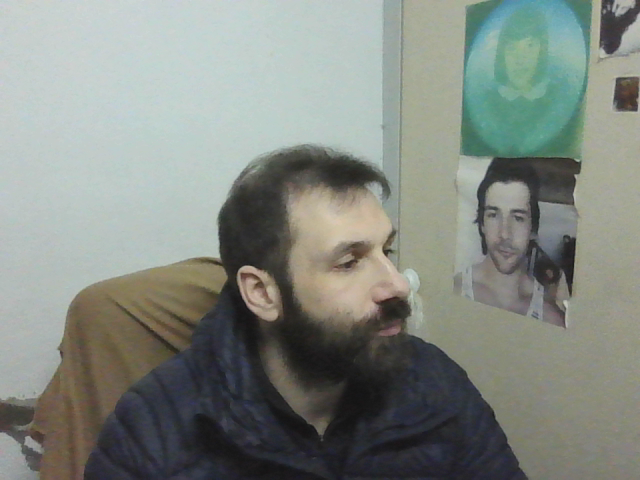
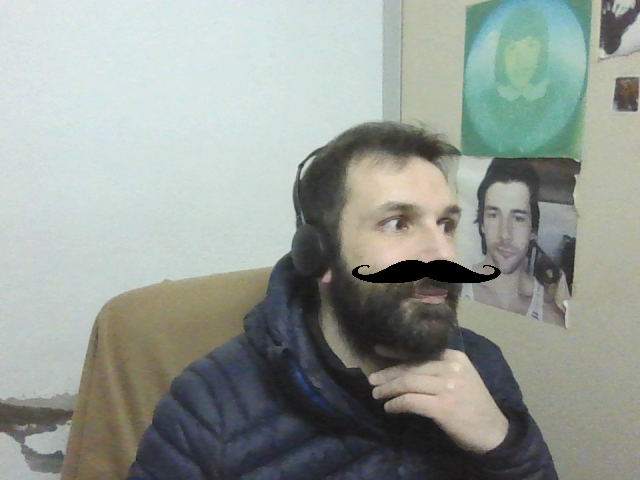
ADD: LS: imgFilter global mode

diff --git a/Proj/code/LS/LSApp/mainwindow.cpp b/Proj/code/LS/LSApp/mainwindow.cpp
@@ -120,6 +120,8 @@ MainWindow::MainWindow(QWidget *parent)
             this, SLOT(onImgFiltSelected(int)) );
     connect(_interWind, SIGNAL( takePic_complete() ),
             this, SLOT( onTakePic_complete() ));
+    connect(_imgFiltWind, SIGNAL(imgFiltGlobal(bool)),
+            this, SLOT(onImgFiltGlobal(bool)) );
 
     //connect()
 
@@ -132,6 +134,7 @@ MainWindow::MainWindow(QWidget *parent)
     pthread_mutex_init(&_m_mode, NULL);
     pthread_mutex_init(&_m_cond_cam_started, NULL);
     pthread_mutex_init(&_m_curFrame, NULL);
+    pthread_mutex_init(&_m_imgFilter, NULL);
 
     /**< Condition variables initialization */
     pthread_cond_init( &_cond_cam_started, 0);
@@ -170,6 +173,7 @@ MainWindow::MainWindow(QWidget *parent)
 
     /**< Create filters */
     createFilters();
+    _filter_on = false;
 
 
     /**< Threads */
@@ -187,6 +191,13 @@ MainWindow::MainWindow(QWidget *parent)
 //                    &MainWindow::gesture_recog_worker_thr, this );
 }
 
+void MainWindow::onImgFiltGlobal(bool enable){
+    //std::cout << "ImgFiltGlobal" << std::endl;
+    /**< Enabling filter globally */;
+    pthread_mutex_lock( &this->_m_imgFilter);
+    this->_filter_on = enable;
+    pthread_mutex_unlock( &this->_m_imgFilter);
+}
 
 MainWindow::~MainWindow() {
 
@@ -542,32 +553,44 @@ void* MainWindow::gesture_recog_worker_thr(void *arg){
 
 void MainWindow::displayImg(cv::Mat frame){
 
-    switch(_appmode){
-    case AppMode::INTER:
-    case AppMode::SHAR:
-        /**< Store current frame */
-        pthread_mutex_lock( &_m_curFrame);
-        _curFrame = frame;
-        pthread_mutex_unlock( &_m_curFrame);
+    //switch(_appmode){
+    //case AppMode::INTER:
+    //case AppMode::SHAR:
+    //    /**< Store current frame */
+    //    pthread_mutex_lock( &_m_curFrame);
+    //    _curFrame = frame;
+    //    pthread_mutex_unlock( &_m_curFrame);
 
-        /**< Recognize gesture */
-        this->recognizeGesture(frame);
-        break;
-    case AppMode::IMGFILT:
-        /**< Recognize gesture */
-        this->recognizeGesture(frame);
+    //    /**< Recognize gesture */
+    //    this->recognizeGesture(frame);
+    //    break;
+    //case AppMode::IMGFILT:
+    //    /**< Recognize gesture */
+    //    this->recognizeGesture(frame);
 
-        /**< Apply filter */
+    //    /**< Apply filter */
+    //    this->applyFilterOverlay(frame, _filters[_filters_idx]);
+
+    //    /**< Store current frame */
+    //    pthread_mutex_lock( &_m_curFrame);
+    //    _curFrame = frame;
+    //    pthread_mutex_unlock( &_m_curFrame);
+    //    break;
+    //default:
+    //    break;
+    //}
+
+    /**< Store current frame */
+    pthread_mutex_lock( &_m_curFrame);
+    _curFrame = frame;
+    pthread_mutex_unlock( &_m_curFrame);
+
+    /**< Recognize gesture */
+    this->recognizeGesture(frame);
+
+    /**< Apply filter */
+    if(_filter_on)
         this->applyFilterOverlay(frame, _filters[_filters_idx]);
-
-        /**< Store current frame */
-        pthread_mutex_lock( &_m_curFrame);
-        _curFrame = frame;
-        pthread_mutex_unlock( &_m_curFrame);
-        break;
-    default:
-        break;
-    }
 
 //    static bool updateCanvas = false;
 //    /**< Store current frame */
@@ -577,17 +600,15 @@ void MainWindow::displayImg(cv::Mat frame){
 //
 //    if(updateCanvas){
 
-        QImage qimg(frame.data, frame.cols, frame.rows, frame.step,
-                            QImage::Format_RGB888);
+    QImage qimg(frame.data, frame.cols, frame.rows, frame.step,
+                QImage::Format_RGB888);
 
-        this->_pixmap.setPixmap(QPixmap::fromImage(qimg.rgbSwapped()));
+    this->_pixmap.setPixmap(QPixmap::fromImage(qimg.rgbSwapped()));
 
-        /**< Aspect ratio */
-        /* KeepAspectRatio is what works best */
-        this->ui->graphicsView->fitInView(&this->_pixmap,
-                                              Qt::KeepAspectRatio);
-        //   }
-
+    /**< Aspect ratio */
+    /* KeepAspectRatio is what works best */
+    this->ui->graphicsView->fitInView(&this->_pixmap, Qt::KeepAspectRatio);
+    //   }
 }
 
 void MainWindow::recognizeGesture(cv::Mat &frame){
@@ -876,12 +897,16 @@ void MainWindow::onInter_mode_pressed(){
 
 void MainWindow::onImgFilt_mode_pressed(){
 
+    /**< Enabling filter globally */;
+    pthread_mutex_lock( &this->_m_imgFilter);
+    this->_filter_on = true;
+    pthread_mutex_unlock( &this->_m_imgFilter);
+
     /**< Change mode before jumping */
     pthread_mutex_lock( &_m_mode);
     _appmode = AppMode::IMGFILT;
     ui->stackedWidget->setCurrentIndex(_appmode);
     pthread_mutex_unlock( &_m_mode);
-    
 }
 
 void MainWindow::onShar_mode_pressed(){

diff --git a/Proj/code/LS/LSApp/imgfiltwindow.cpp b/Proj/code/LS/LSApp/imgfiltwindow.cpp
@@ -28,73 +28,67 @@ ImgFiltWindow::~ImgFiltWindow()
     delete ui;
 }
 
-void ImgFiltWindow::on_pb_cancel_share_clicked()
+void ImgFiltWindow::on_pb_cancel_clicked()
 {
+    /**< Make filtering permanent */
+    emit imgFiltGlobal(false);
+    
     /**< Go to INTERACTION mode */
     // Reset view to main before emiting signal
     ui->stackedWidget->setCurrentIndex(UIPages::MAIN);
     emit inter_mode_pressed();
 }
 
-
 void ImgFiltWindow::on_pb_img_filt_clicked()
 {
     emit imgFiltSelected(0);
 }
-
 
 void ImgFiltWindow::on_pb_img_filt_2_clicked()
 {
     emit imgFiltSelected(1);
 }
 
-
 void ImgFiltWindow::on_pb_img_filt_3_clicked()
 {
     emit imgFiltSelected(2);
 }
 
-
-//void ImgFiltWindow::on_pb_img_filt_4_clicked()
-//{
-//    emit imgFiltSelected(3);
-//}
-
-
-void ImgFiltWindow::on_pb_img_filt_5_clicked()
+void ImgFiltWindow::on_pb_p1_next_clicked()
 {
     // DUMMY: for navigation only
     ui->stackedWidget->setCurrentIndex(UIPages::PAGE2);
 }
 
-
-void ImgFiltWindow::on_pb_cancel_share_2_clicked()
+void ImgFiltWindow::on_pb_p2_back_clicked()
 {
     ui->stackedWidget->setCurrentIndex(UIPages::MAIN);
 }
 
-
-void ImgFiltWindow::on_pb_img_filt_6_clicked()
+void ImgFiltWindow::on_pb_img_filt_4_clicked()
 {
     emit imgFiltSelected(0);
 }
 
-
-void ImgFiltWindow::on_pb_img_filt_7_clicked()
+void ImgFiltWindow::on_pb_img_filt_5_clicked()
 {
     emit imgFiltSelected(1);
 }
 
-
-void ImgFiltWindow::on_pb_img_filt_8_clicked()
+void ImgFiltWindow::on_pb_img_filt_6_clicked()
 {
     emit imgFiltSelected(2);
 }
 
-
-void ImgFiltWindow::on_pb_img_filt_9_clicked()
+void ImgFiltWindow::on_pb_img_filt_ok_clicked()
 {
-    emit imgFiltSelected(0);
+    /**< Make filtering permanent */
+    emit imgFiltGlobal(true);
+
+    /**< Go to INTERACTION mode */
+    // Reset view to main before emiting signal
+    ui->stackedWidget->setCurrentIndex(UIPages::MAIN);
+    emit inter_mode_pressed();
 }
 
 //void ImgFiltWindow::on_pb_img_filt_10_clicked()

diff --git a/Proj/code/LS/LSApp/imgfiltwindow.h b/Proj/code/LS/LSApp/imgfiltwindow.h
@@ -16,29 +16,19 @@ public:
     ~ImgFiltWindow();
 
 private slots:
-    void on_pb_cancel_share_clicked();
-
+    /**< Page 1 */
+    void on_pb_cancel_clicked();
     void on_pb_img_filt_clicked();
-
     void on_pb_img_filt_2_clicked();
-
     void on_pb_img_filt_3_clicked();
+    void on_pb_p1_next_clicked();
 
-//    void on_pb_img_filt_4_clicked();
-
+    /**< Page 2 */
+    void on_pb_p2_back_clicked();
+    void on_pb_img_filt_4_clicked();
     void on_pb_img_filt_5_clicked();
-
-    void on_pb_cancel_share_2_clicked();
-
-    //   void on_pb_img_filt_10_clicked();
-
     void on_pb_img_filt_6_clicked();
-
-    void on_pb_img_filt_7_clicked();
-
-    void on_pb_img_filt_8_clicked();
-
-    void on_pb_img_filt_9_clicked();
+    void on_pb_img_filt_ok_clicked();
 
     /**< dummy */
     //void on_pushButton_clicked();
@@ -46,6 +36,7 @@ private slots:
 signals:
     void inter_mode_pressed();
     void imgFiltSelected(int);
+    void imgFiltGlobal(bool enable);
 
 private:
     Ui::ImgFiltWindow *ui;

diff --git a/Proj/code/LS/LSApp/mainwindow.h b/Proj/code/LS/LSApp/mainwindow.h
@@ -77,6 +77,7 @@ private slots:
     void onImgFiltSelected(int idx);
     void onTwitterShare(const QString &);
     void onTakePic_complete();
+    void onImgFiltGlobal(bool enable);
 
     bool eventFilter(QObject *, QEvent *);
 
@@ -139,6 +140,7 @@ private:
     pthread_mutex_t 	_m_canvas; /**< Protects access to Graphics view */
     pthread_mutex_t 	_m_mode; /**< Protects access to mode state variable */
     pthread_mutex_t 	_m_curFrame; /**< Protects access to current frame */
+    pthread_mutex_t 	_m_imgFilter; /**< Protects access to img filter */
     /* For condition variables */
     pthread_mutex_t _m_cond_cam_started;
 
@@ -155,6 +157,7 @@ private:
     cv::Mat _filter;
     std::vector<ImgFilter> _filters;
     int _filters_idx;
+    bool _filter_on;
 
     /**< Image Acquisition */
     cv::Mat _curFrame;
